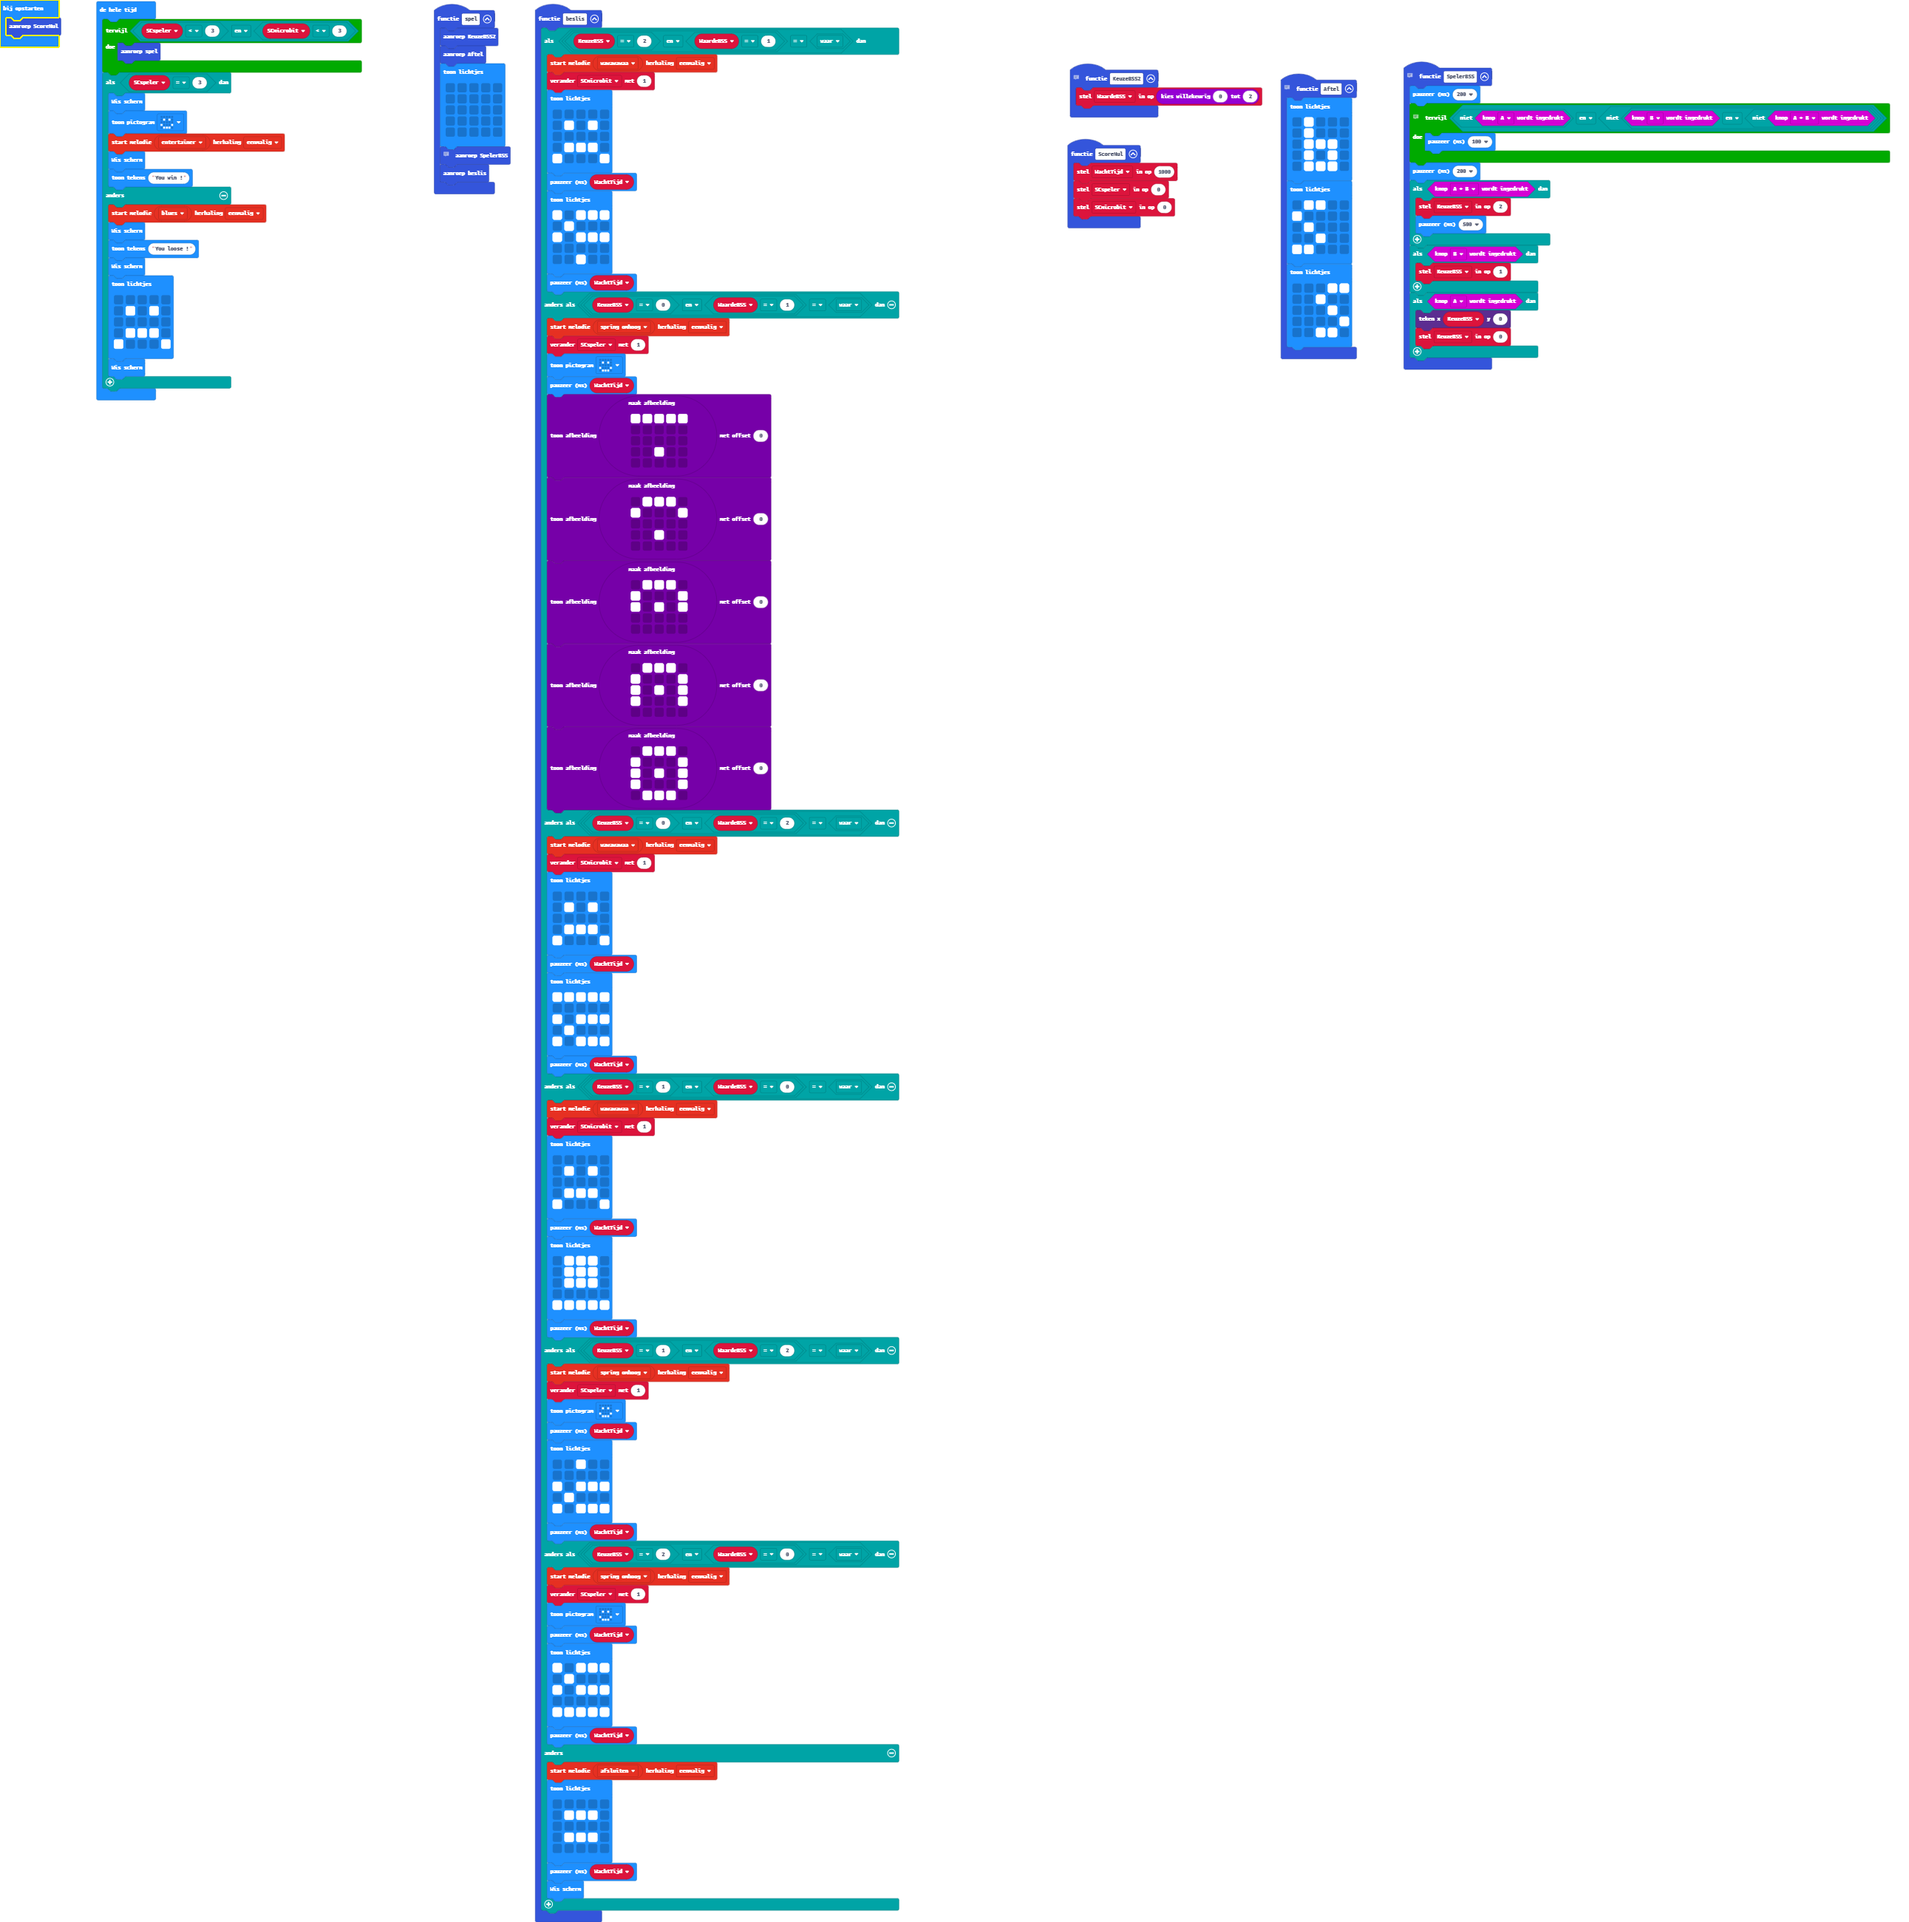
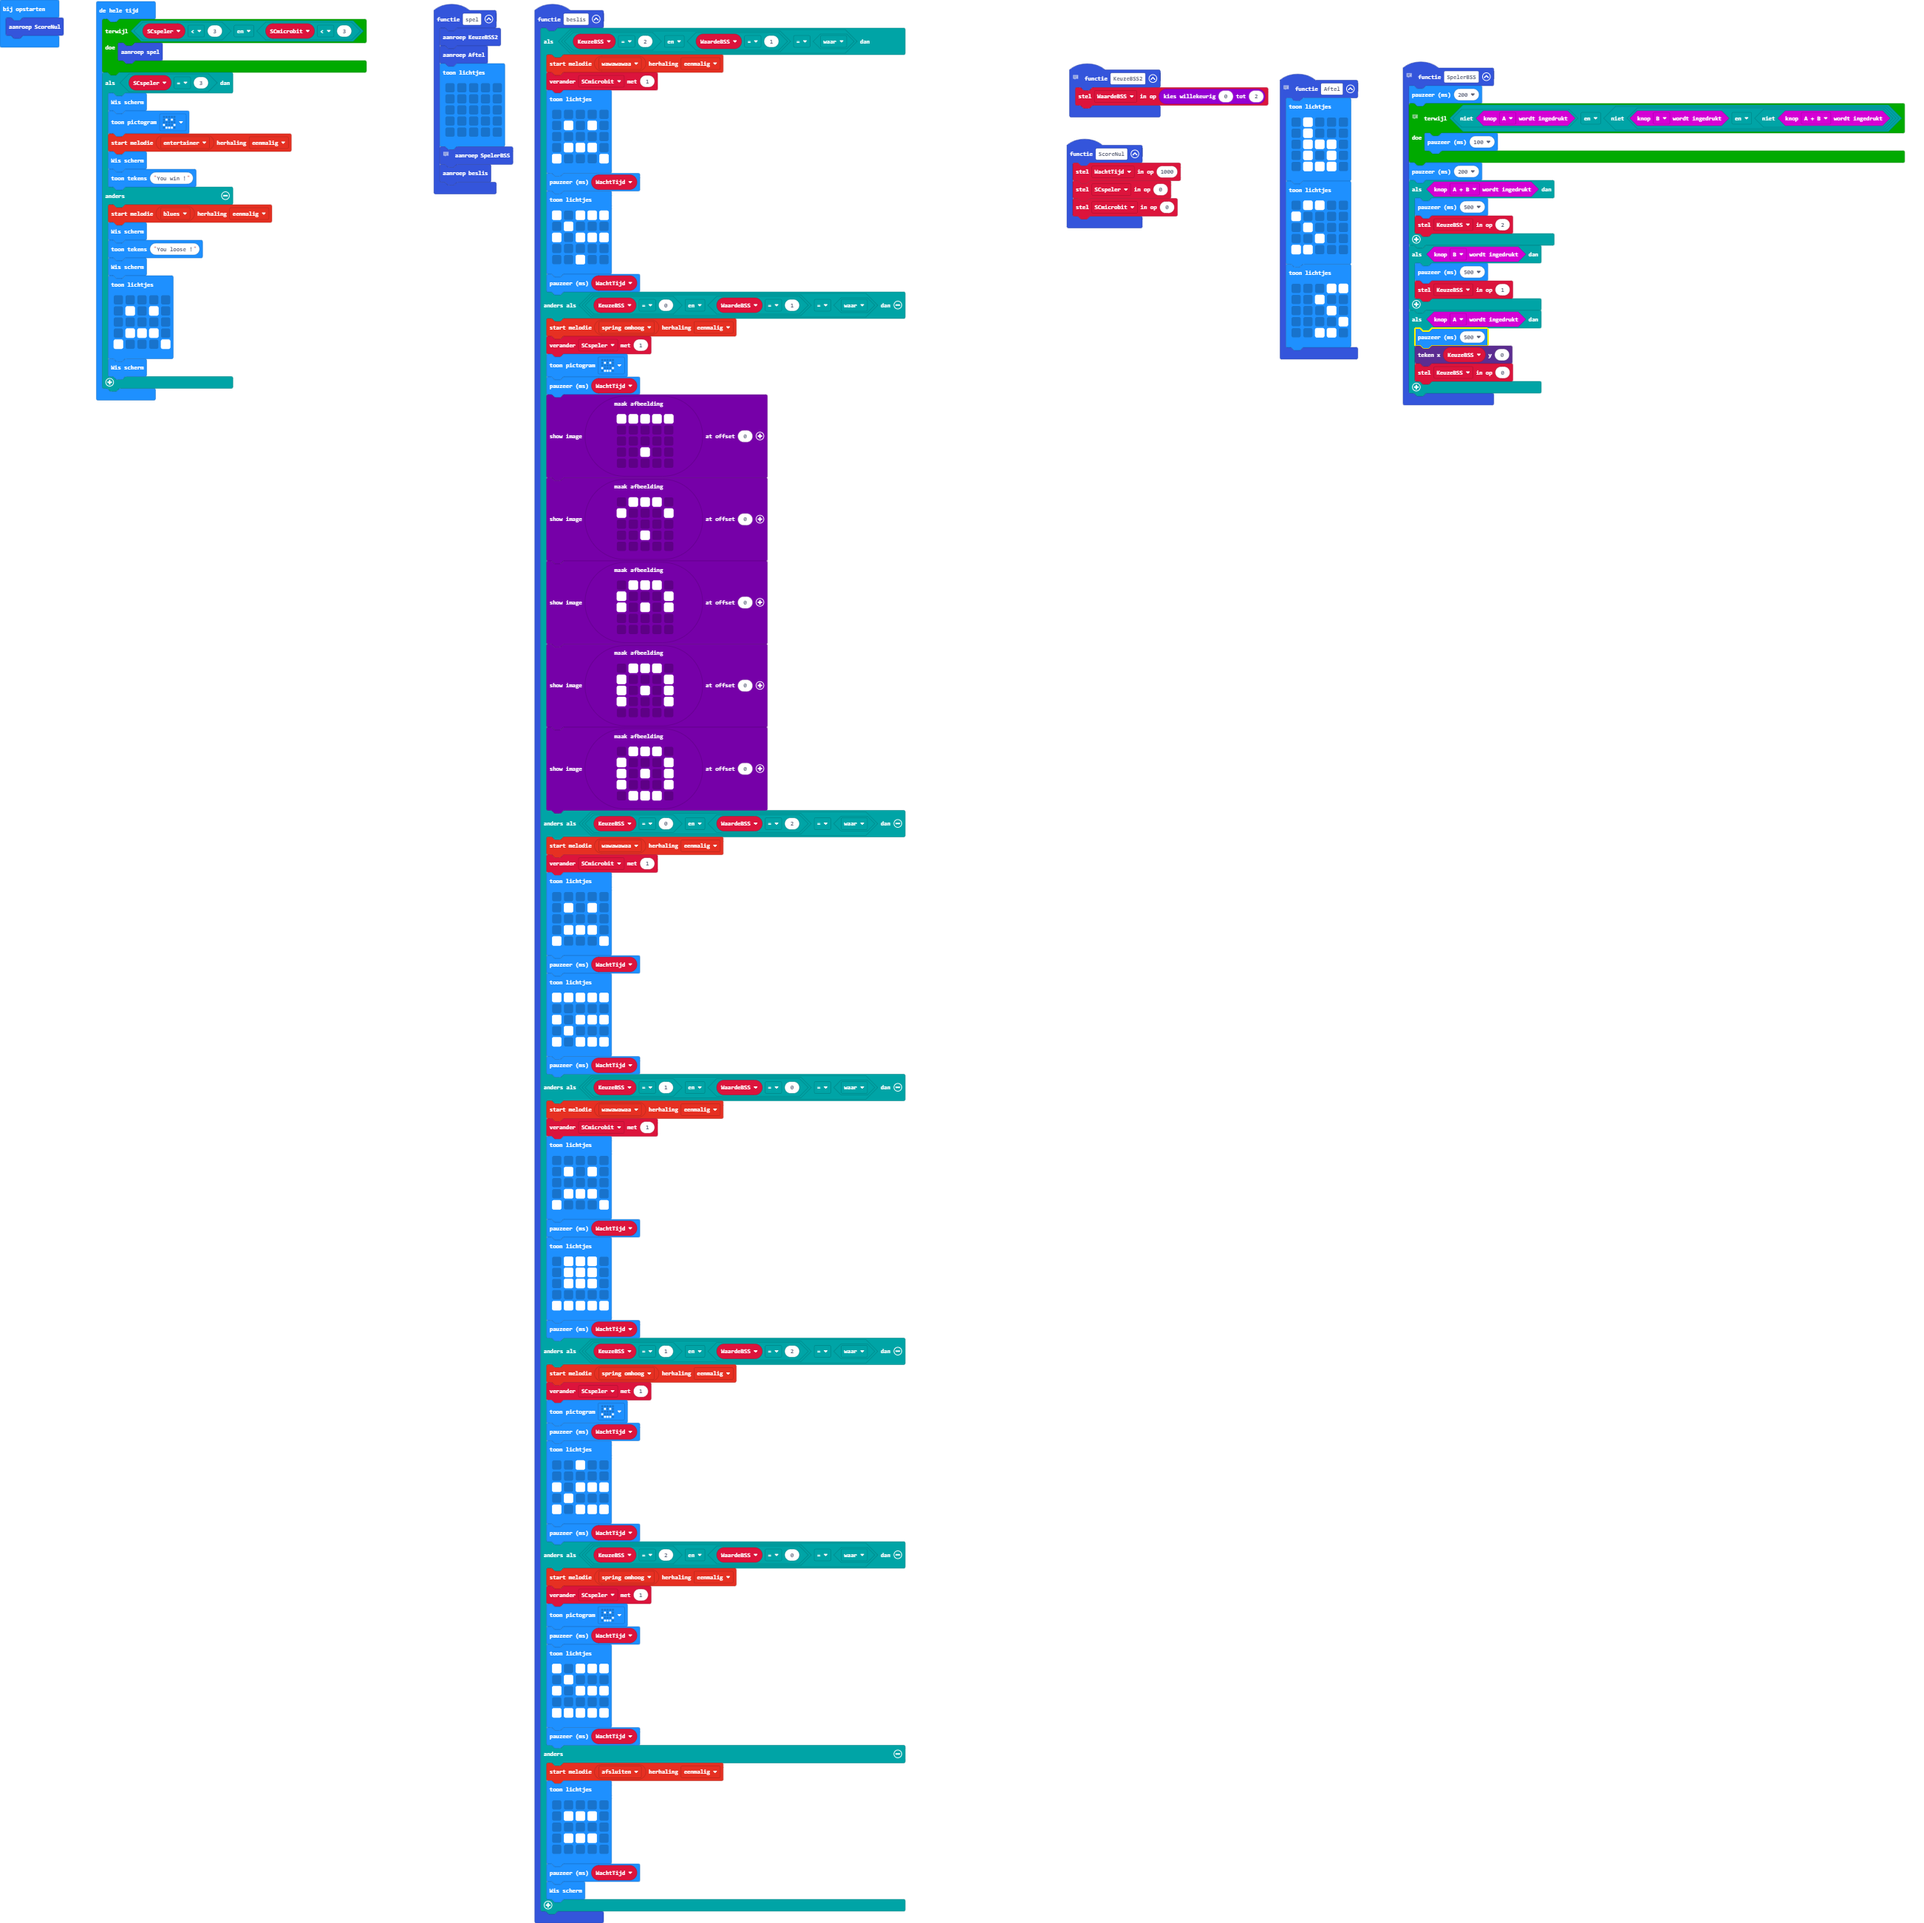
Update pxt.json, main.blocks, main.ts

diff --git a/main.ts b/main.ts
@@ -7,13 +7,15 @@ function SpelerBSS () {
     }
     basic.pause(200)
     if (input.buttonIsPressed(Button.AB)) {
-        KeuzeBSS = 2
         basic.pause(500)
+        KeuzeBSS = 2
     }
     if (input.buttonIsPressed(Button.B)) {
+        basic.pause(500)
         KeuzeBSS = 1
     }
     if (input.buttonIsPressed(Button.A)) {
+        basic.pause(500)
         led.plot(KeuzeBSS, 0)
         KeuzeBSS = 0
     }
